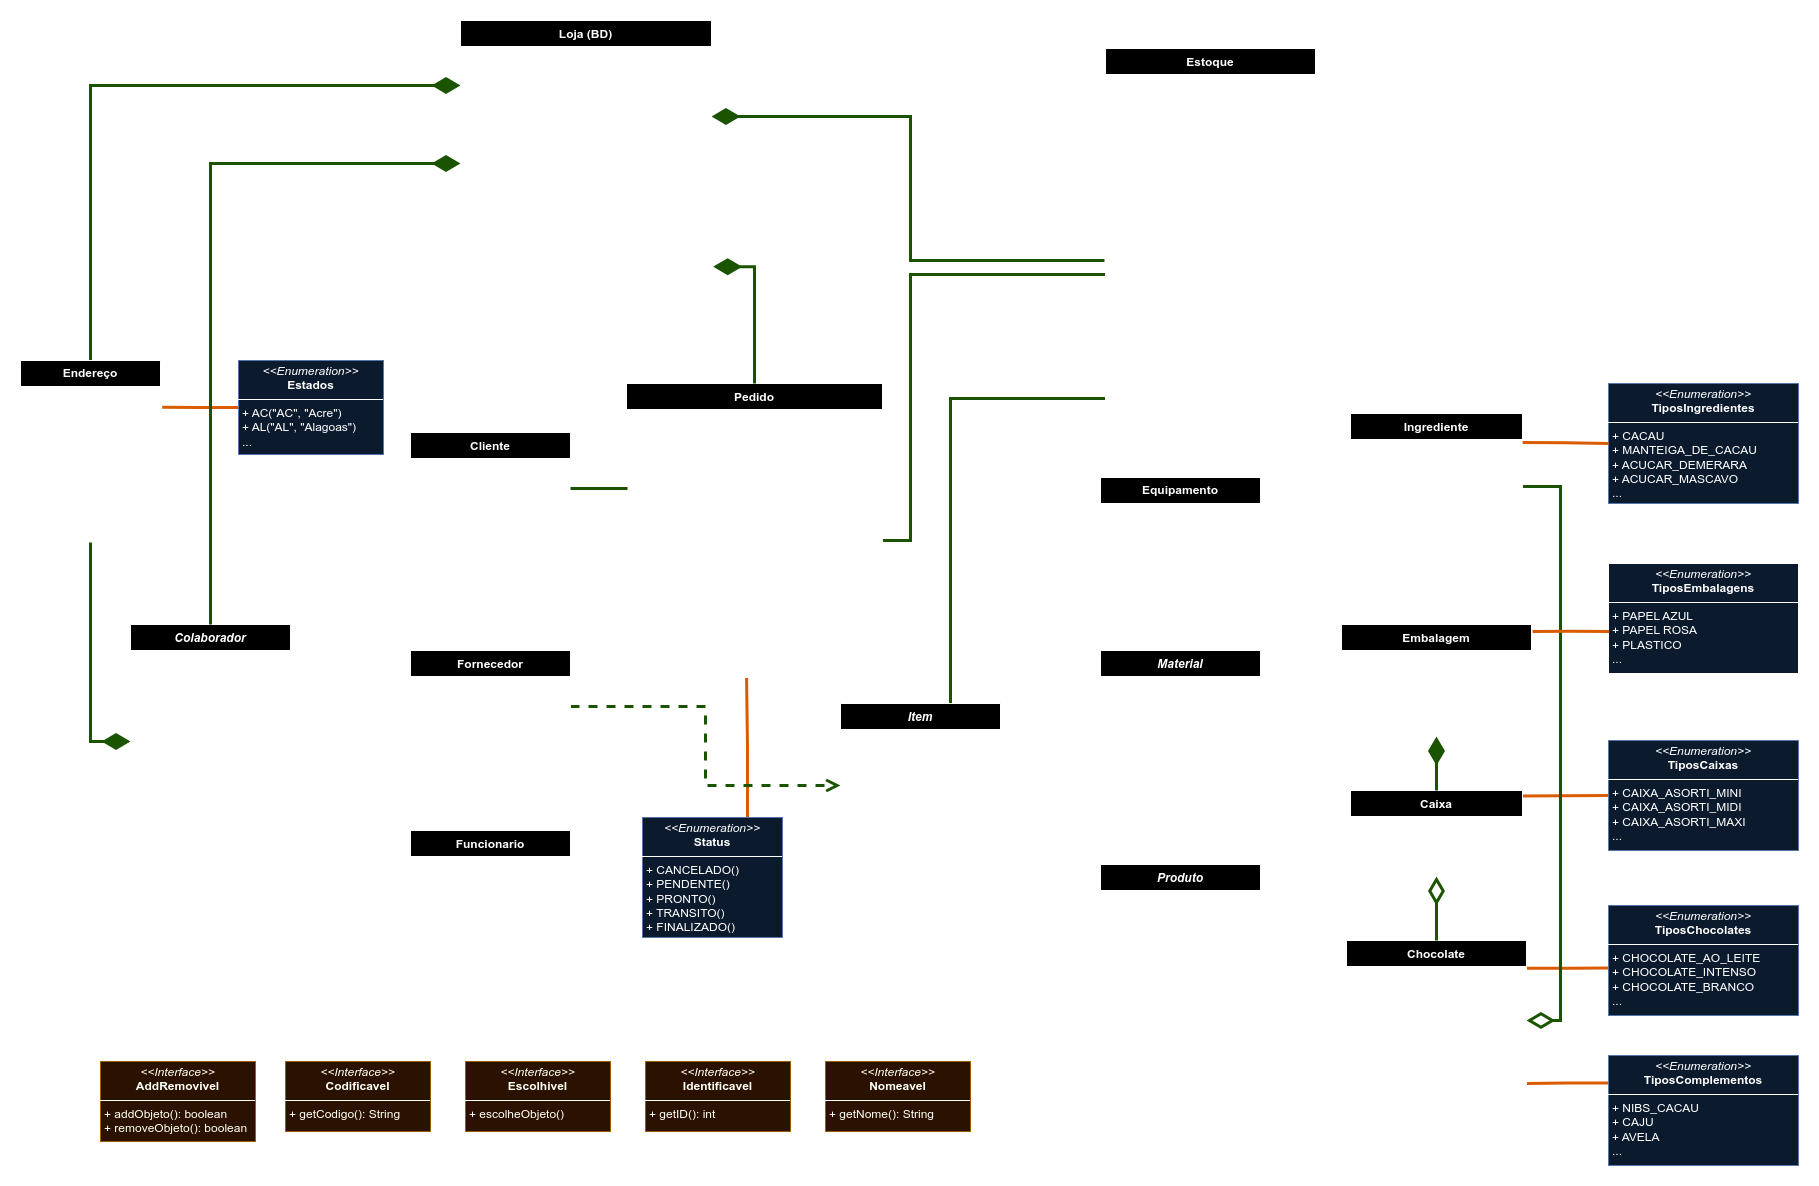
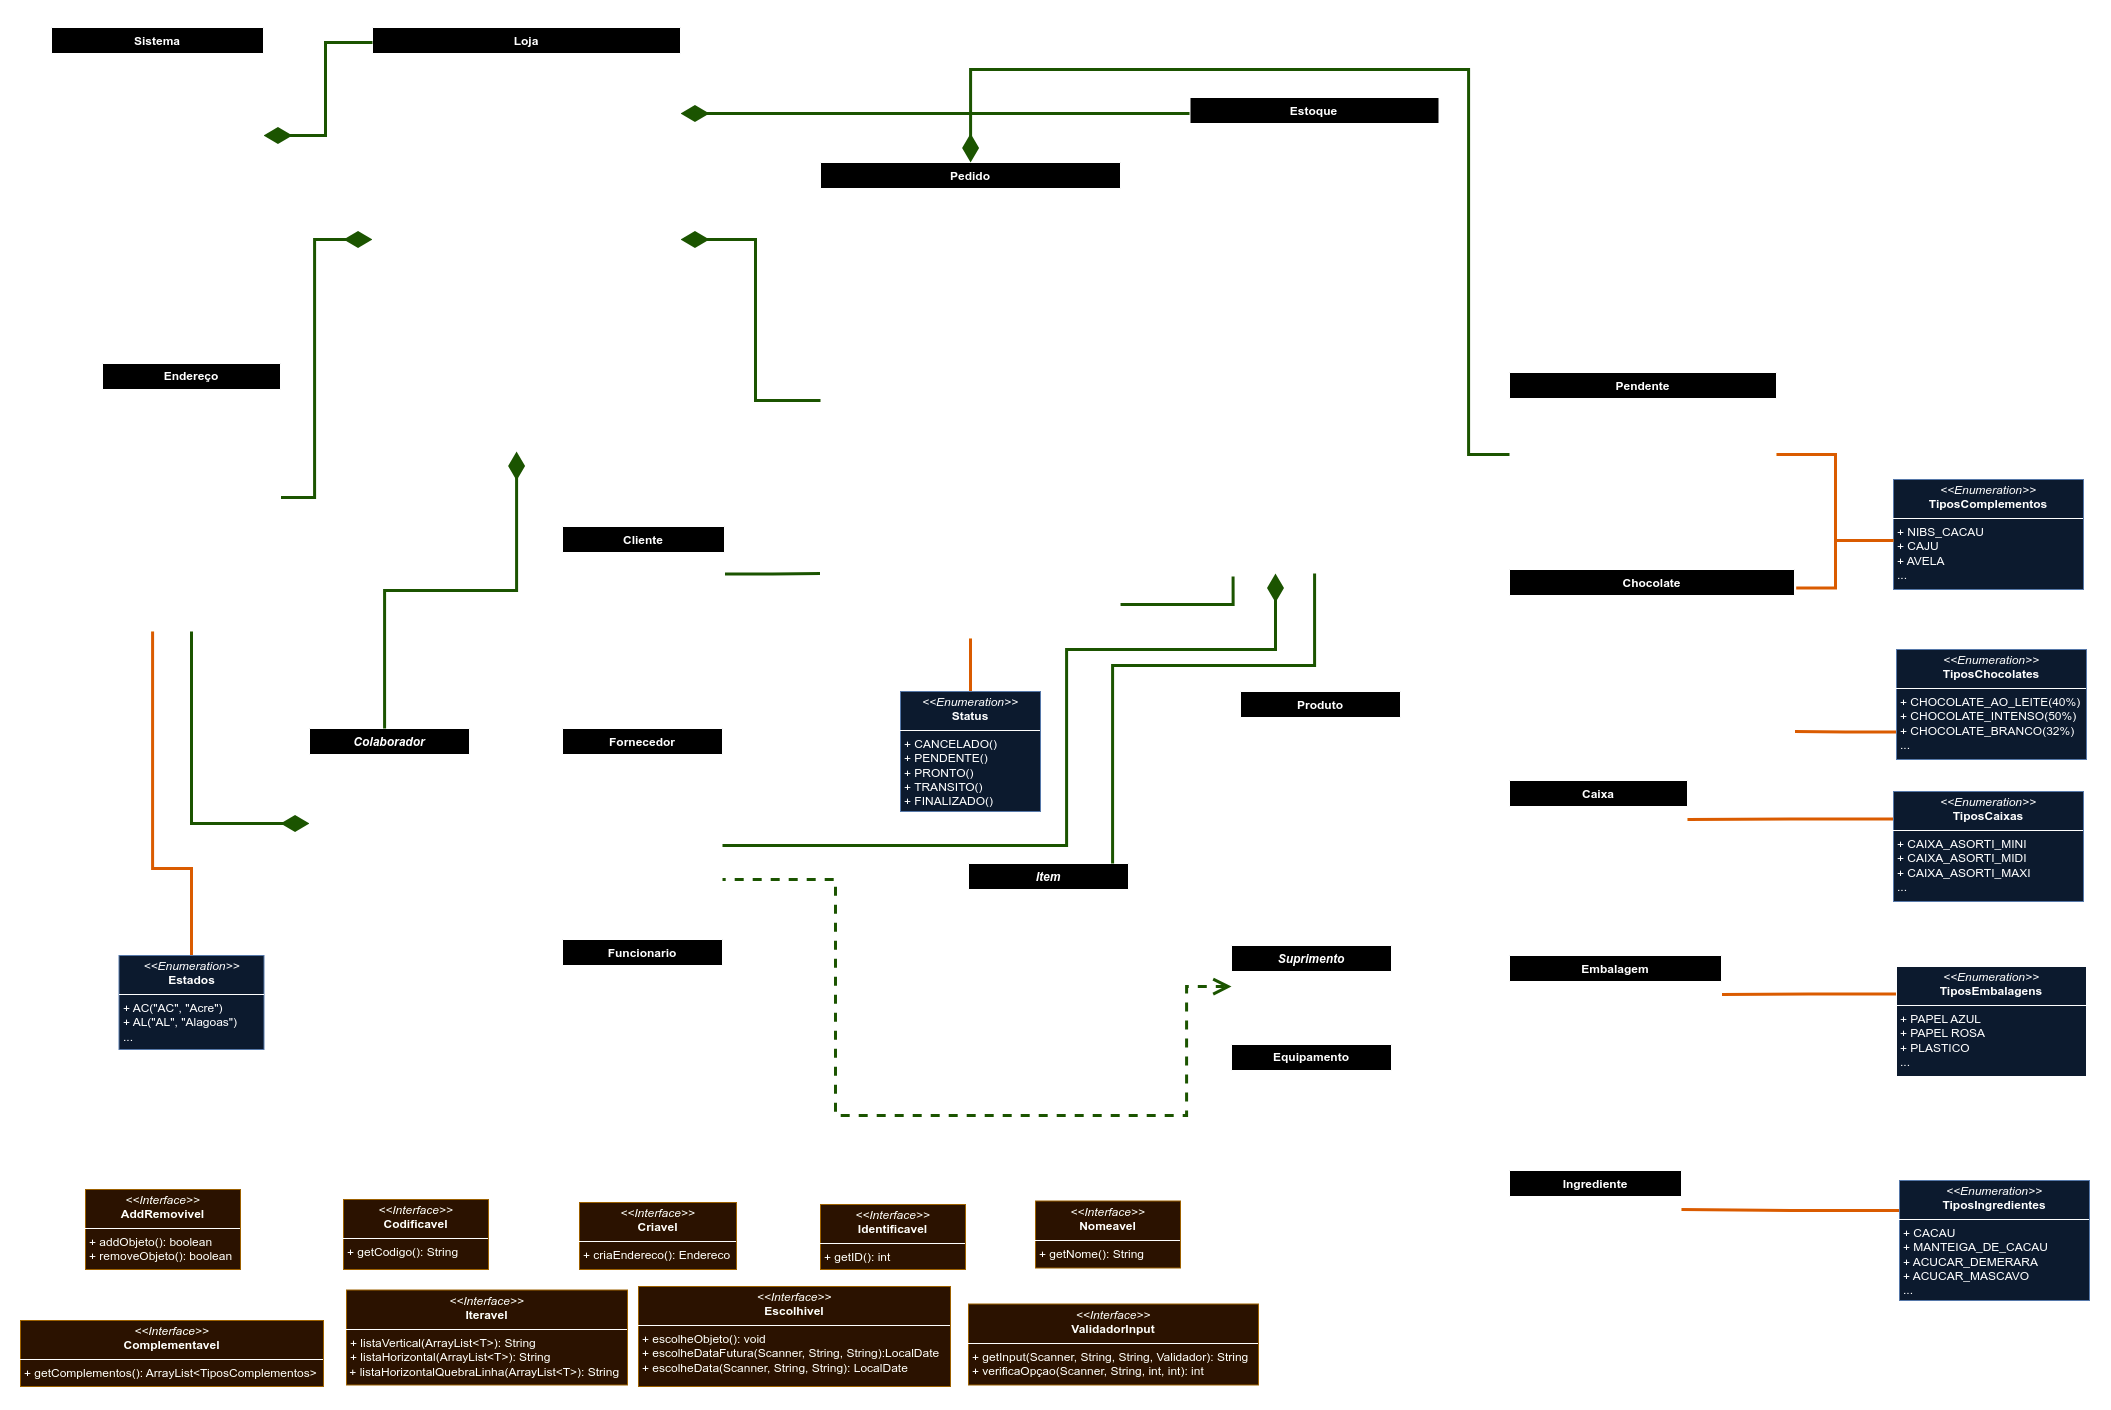
Esquema UML atualizado

diff --git a/src/chocostock/loja/Estoque.java b/src/chocostock/loja/Estoque.java
@@ -23,8 +23,9 @@ import java.util.Scanner;
  * A classe Estoque gerencia os produtos, materiais, equipamentos
  * e embalagens disponíveis no estoque da loja. <br>
  * Implementa os métodos "addEmbalagem", "addProduto", "addMaterial" ...,
- * "imprimirIngredientes", "imprimirProdutos", "statusIngredientes",
- * "retiraProdutoEstoque" e o método privado "meioseProduto".
+ * "novoFornecedor", "imprimirIngredientes", "imprimirProdutos",
+ * "statusIngredientes", "retiraProdutoEstoque", "estocarCliente",
+ * "estocarEmbalagem" e o método privado "meioseProduto".
  */
 public class Estoque implements AddRemovivel, Criavel, Escolhivel, Iteravel{
     private ArrayList<Produto> produtos;
@@ -100,6 +101,10 @@ public class Estoque implements AddRemovivel, Criavel, Escolhivel, Iteravel{
         return listaHorizontalQuebraLinha(fornecedores);
     }
 
+    /**
+     * Método para criar um novo fornecedor com dados fornecidos pelo usuário.
+     * Solicita ao usuário que insira as informações do fornecedor via console.
+     */
     public Fornecedor novoFornecedor(Scanner scanner) {
         Fornecedor fornecedor = new Fornecedor();
         fornecedor.setNome(getInput(scanner, "Nome do fornecedor: ", "Nome invalido. Insira novamente.", Verifica::isNome));
@@ -389,6 +394,10 @@ public class Estoque implements AddRemovivel, Criavel, Escolhivel, Iteravel{
         return produto_pedido;
     }
 
+    /**
+     * Método para adicionar um novo ingrediente ao estoque com dados fornecidos pelo usuário.
+     * Solicita ao usuário que insira as informações do ingrediente via console.
+     */
     public Ingrediente estocarIngrediente(Scanner input) {
         Ingrediente ingrediente = new Ingrediente();
         //TIPO
@@ -440,6 +449,10 @@ public class Estoque implements AddRemovivel, Criavel, Escolhivel, Iteravel{
         return ingrediente;
     }
 
+    /**
+     * Método para adicionar uma nova embalagem ao estoque com dados fornecidos pelo usuário.
+     * Solicita ao usuário que insira as informações da embalagem via console.
+     */
     public Embalagem estocarEmbalagem(Scanner input){
         Embalagem embalagem = new Embalagem();
         //TIPO

diff --git a/src/chocostock/Sistema.java b/src/chocostock/Sistema.java
@@ -26,7 +26,6 @@ import static chocostock.enums.TiposChocolates.CHOCOLATE_BRANCO_ACAI_BETERRABA;
  * clientes, fornecedores e ingredientes, e para listar os pedidos, clientes e fornecedores existentes.
  */
 public class Sistema implements Criavel, ValidadorInput {
-
     private Scanner input;
     private String msg;
     private int opcao;

diff --git a/README.md b/README.md
@@ -23,7 +23,6 @@ Este sistema pode ser utilizado no cotidiano da fábrica de chocolate para reali
 - Histórico de todos os pedidos, bem como a capacidade de gerar relatórios de venda e estoque.
 
 ## [Diagrama UML do Projeto](https://app.diagrams.net/#G1ob392-avmraMdT-HdXfV2x8NyNQ4EVuE#%7B%22pageId%22%3A%22X-9vTq_ojHjCq0rzShb6%22%7D)
-![Diagrama UML](imagens/ChocoStock_UML.png)
 
 ### Classes
 - `Main`: A classe main é responsável por instanciar um Scanner, a Loja, e alguns objetos para que o sistema possa ser testado.
@@ -71,6 +70,8 @@ Este sistema pode ser utilizado no cotidiano da fábrica de chocolate para reali
 - `Iteravel`: A interface Iteravel define métodos para criar representações de listas em formato de texto. (listaVertical, listaHorizontal e listaHorizontalQuebraLinha)
 - `Nomeavel`: A interface Nomeavel define o contrato para classes que possuem um método para obter um nome.
 - `ValidadorInput`: Interface que define um método padrão para obter entrada do usuário com validação. Também define uma interface interna para validadores de entrada.
+
+![Diagrama UML](imagens/ChocoStock_UML.png){#figura1}
 
 ## Heranças e Relações
 O projeto utiliza herança e relações entre as classes para organizar e facilitar o desenvolvimento do sistema:
